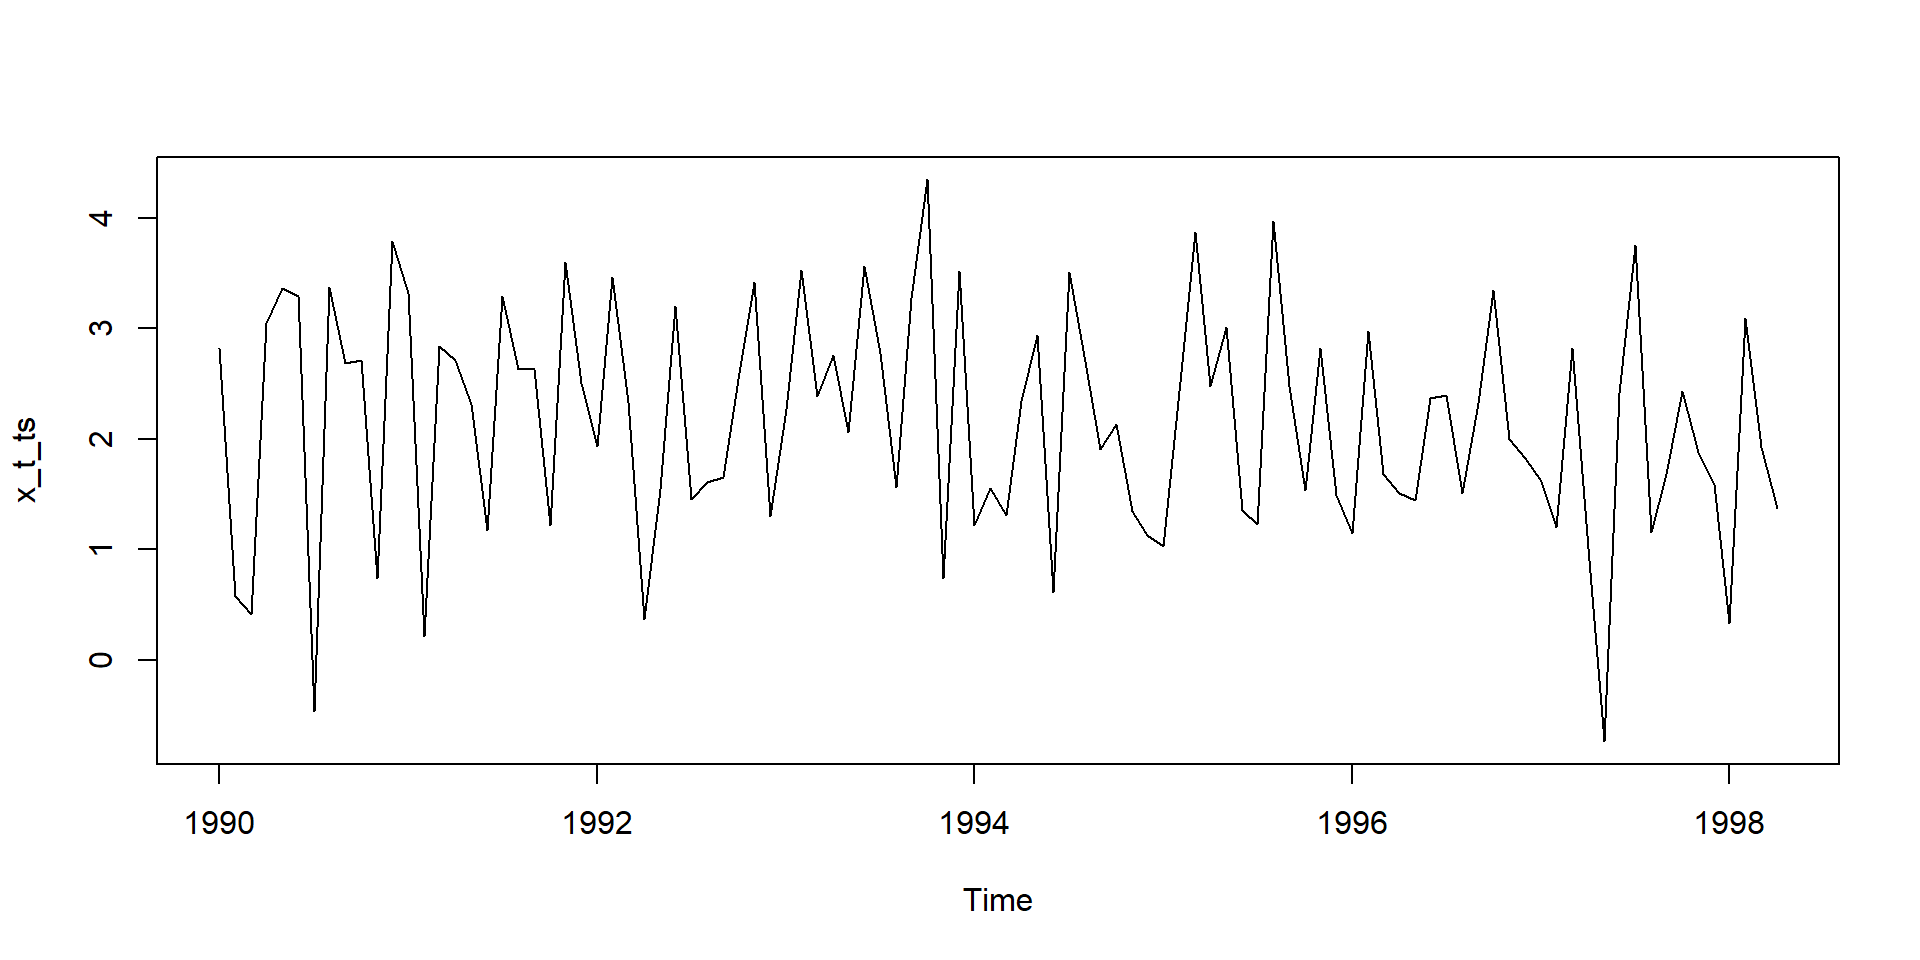
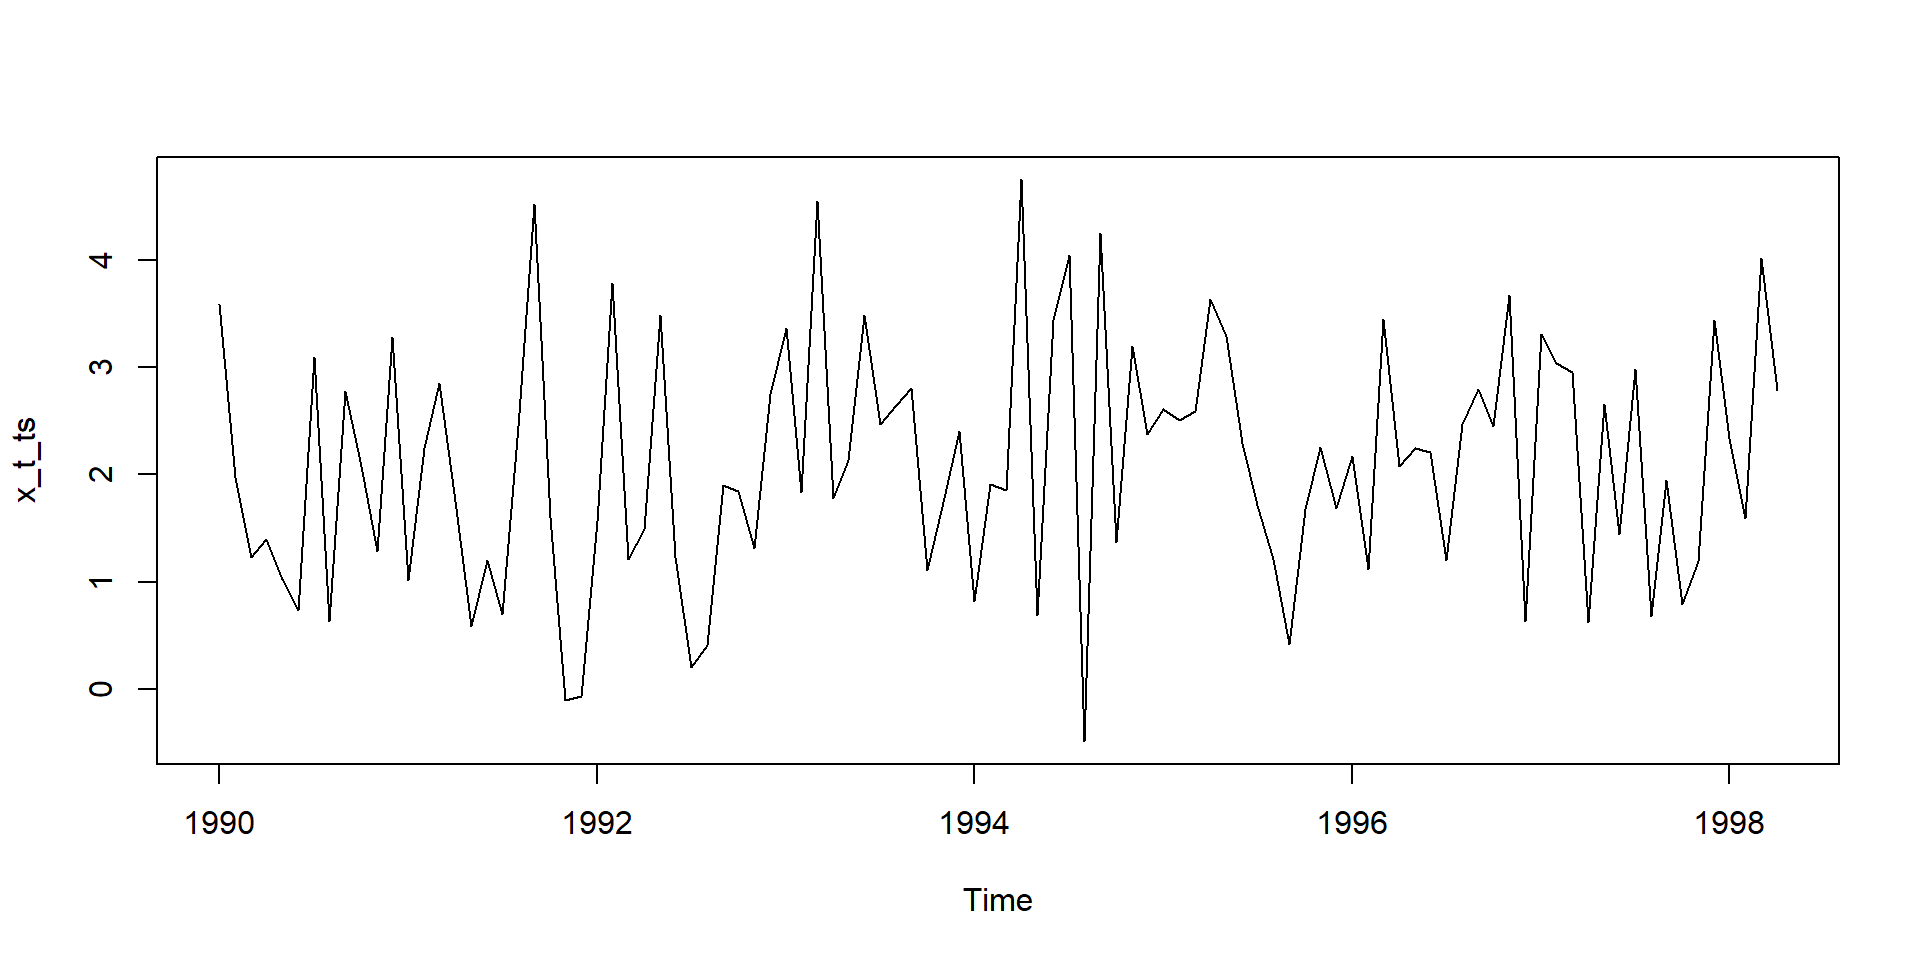
minor commit- added date

diff --git a/index.html b/index.html
@@ -403,6 +403,7 @@
   <p class="author">Senior Research Fellow</p>
   <p class="author">Department of Humanities and Social Sciences</p>
   <p class="author">Indian Institute of Technology Kharagpur</p>
+  <p class="date">30 April, 2022</p>
 </section>
 
 <section id="introduction" class="slide level3">
@@ -535,26 +536,26 @@
 <span id="cb3-10"><a href="#cb3-10"></a>x_t_ts</span></code><button title="Copy to Clipboard" class="code-copy-button"><i class="bi"></i></button></pre></div>
 </details>
 <div class="cell-output-stdout">
-<pre><code>            Jan        Feb        Mar        Apr        May        Jun
-1990  2.8203618  0.5755886  0.4134947  3.0454421  3.3659777  3.2954016
-1991  3.3161857  0.2127545  2.8374134  2.7166428  2.3117107  1.1738755
-1992  1.9372538  3.4643340  2.3323571  0.3694845  1.5466471  3.2061273
-1993  2.2733725  3.5311956  2.3861636  2.7582540  2.0640139  3.5661658
-1994  1.2235892  1.5590282  1.3059353  2.3428557  2.9375217  0.6132035
-1995  1.0304379  2.4296713  3.8684515  2.4794834  3.0075871  1.3595411
-1996  1.1439790  2.9719980  1.6849453  1.5137620  1.4455879  2.3669057
-1997  1.6188183  1.2002350  2.8244947  1.0083320 -0.7371647  2.4182762
-1998  0.3310294  3.0891463  1.9229076  1.3697189                      
-            Jul        Aug        Sep        Oct        Nov        Dec
-1990 -0.4609463  3.3737579  2.6817652  2.7152014  0.7397897  3.7916221
-1991  3.2913807  2.6275787  2.6283636  1.2202671  3.6020659  2.5092935
-1992  1.4530966  1.6121611  1.6524619  2.5441481  3.4220465  1.3020075
-1993  2.7735829  1.5619071  3.2748662  4.3476704  0.7436226  3.5164579
-1994  3.5114732  2.7507859  1.9112005  2.1323712  1.3501136  1.1322313
-1995  1.2307389  3.9682767  2.4759107  1.5398983  2.8250183  1.4945765
-1996  2.3994572  1.5054205  2.3194425  3.3441534  1.9971786  1.8297629
-1997  3.7563266  1.1551518  1.6803481  2.4344934  1.8830335  1.5874076
-1998                                                                  </code></pre>
+<pre><code>             Jan         Feb         Mar         Apr         May         Jun
+1990  3.58619003  1.97260692  1.23124454  1.39818664  1.02171087  0.73845603
+1991  1.01899946  2.24816454  2.85556385  1.75127558  0.58668438  1.19855449
+1992  1.56781854  3.79085127  1.20715958  1.48752162  3.48664945  1.22638670
+1993  3.36695089  1.83395531  4.55605347  1.77990781  2.13699560  3.49127827
+1994  0.82049670  1.91069217  1.85534271  4.75335798  0.68675529  3.43746413
+1995  2.61045317  2.50838287  2.58819281  3.63317504  3.29258593  2.29253950
+1996  2.17220052  1.11493451  3.44702546  2.07559415  2.24818698  2.20531843
+1997  3.30816721  3.04215390  2.95817542  0.62549910  2.65434288  1.44330964
+1998  2.33948409  1.59744423  4.02340716  2.79138713                        
+             Jul         Aug         Sep         Oct         Nov         Dec
+1990  3.09319210  0.63200855  2.77719168  2.07767082  1.28412951  3.28163590
+1991  0.70089023  2.44907446  4.52849894  1.60037770 -0.10856132 -0.07150558
+1992  0.20782724  0.40737580  1.90073560  1.84623948  1.31078144  2.75234294
+1993  2.47275528  2.64538595  2.80879192  1.10807746  1.74055831  2.40808579
+1994  4.04437223 -0.48879156  4.24971148  1.37041498  3.19836224  2.37372865
+1995  1.71185441  1.21392902  0.42062794  1.67967552  2.25341664  1.68658852
+1996  1.19843909  2.47197746  2.79586584  2.44979455  3.67077967  0.63252534
+1997  2.98473636  0.67704394  1.94995663  0.78865165  1.19185131  3.43795162
+1998                                                                        </code></pre>
 </div>
 </div>
 <div class="cell">
@@ -583,107 +584,107 @@
 <span id="cb6-10"><a href="#cb6-10"></a>xt_xts</span></code><button title="Copy to Clipboard" class="code-copy-button"><i class="bi"></i></button></pre></div>
 </details>
 <div class="cell-output-stdout">
-<pre><code>               [,1]
-Jan 1990  2.8203618
-Feb 1990  0.5755886
-Mar 1990  0.4134947
-Apr 1990  3.0454421
-May 1990  3.3659777
-Jun 1990  3.2954016
-Jul 1990 -0.4609463
-Aug 1990  3.3737579
-Sep 1990  2.6817652
-Oct 1990  2.7152014
-Nov 1990  0.7397897
-Dec 1990  3.7916221
-Jan 1991  3.3161857
-Feb 1991  0.2127545
-Mar 1991  2.8374134
-Apr 1991  2.7166428
-May 1991  2.3117107
-Jun 1991  1.1738755
-Jul 1991  3.2913807
-Aug 1991  2.6275787
-Sep 1991  2.6283636
-Oct 1991  1.2202671
-Nov 1991  3.6020659
-Dec 1991  2.5092935
-Jan 1992  1.9372538
-Feb 1992  3.4643340
-Mar 1992  2.3323571
-Apr 1992  0.3694845
-May 1992  1.5466471
-Jun 1992  3.2061273
-Jul 1992  1.4530966
-Aug 1992  1.6121611
-Sep 1992  1.6524619
-Oct 1992  2.5441481
-Nov 1992  3.4220465
-Dec 1992  1.3020075
-Jan 1993  2.2733725
-Feb 1993  3.5311956
-Mar 1993  2.3861636
-Apr 1993  2.7582540
-May 1993  2.0640139
-Jun 1993  3.5661658
-Jul 1993  2.7735829
-Aug 1993  1.5619071
-Sep 1993  3.2748662
-Oct 1993  4.3476704
-Nov 1993  0.7436226
-Dec 1993  3.5164579
-Jan 1994  1.2235892
-Feb 1994  1.5590282
-Mar 1994  1.3059353
-Apr 1994  2.3428557
-May 1994  2.9375217
-Jun 1994  0.6132035
-Jul 1994  3.5114732
-Aug 1994  2.7507859
-Sep 1994  1.9112005
-Oct 1994  2.1323712
-Nov 1994  1.3501136
-Dec 1994  1.1322313
-Jan 1995  1.0304379
-Feb 1995  2.4296713
-Mar 1995  3.8684515
-Apr 1995  2.4794834
-May 1995  3.0075871
-Jun 1995  1.3595411
-Jul 1995  1.2307389
-Aug 1995  3.9682767
-Sep 1995  2.4759107
-Oct 1995  1.5398983
-Nov 1995  2.8250183
-Dec 1995  1.4945765
-Jan 1996  1.1439790
-Feb 1996  2.9719980
-Mar 1996  1.6849453
-Apr 1996  1.5137620
-May 1996  1.4455879
-Jun 1996  2.3669057
-Jul 1996  2.3994572
-Aug 1996  1.5054205
-Sep 1996  2.3194425
-Oct 1996  3.3441534
-Nov 1996  1.9971786
-Dec 1996  1.8297629
-Jan 1997  1.6188183
-Feb 1997  1.2002350
-Mar 1997  2.8244947
-Apr 1997  1.0083320
-May 1997 -0.7371647
-Jun 1997  2.4182762
-Jul 1997  3.7563266
-Aug 1997  1.1551518
-Sep 1997  1.6803481
-Oct 1997  2.4344934
-Nov 1997  1.8830335
-Dec 1997  1.5874076
-Jan 1998  0.3310294
-Feb 1998  3.0891463
-Mar 1998  1.9229076
-Apr 1998  1.3697189</code></pre>
+<pre><code>                [,1]
+Jan 1990  3.58619003
+Feb 1990  1.97260692
+Mar 1990  1.23124454
+Apr 1990  1.39818664
+May 1990  1.02171087
+Jun 1990  0.73845603
+Jul 1990  3.09319210
+Aug 1990  0.63200855
+Sep 1990  2.77719168
+Oct 1990  2.07767082
+Nov 1990  1.28412951
+Dec 1990  3.28163590
+Jan 1991  1.01899946
+Feb 1991  2.24816454
+Mar 1991  2.85556385
+Apr 1991  1.75127558
+May 1991  0.58668438
+Jun 1991  1.19855449
+Jul 1991  0.70089023
+Aug 1991  2.44907446
+Sep 1991  4.52849894
+Oct 1991  1.60037770
+Nov 1991 -0.10856132
+Dec 1991 -0.07150558
+Jan 1992  1.56781854
+Feb 1992  3.79085127
+Mar 1992  1.20715958
+Apr 1992  1.48752162
+May 1992  3.48664945
+Jun 1992  1.22638670
+Jul 1992  0.20782724
+Aug 1992  0.40737580
+Sep 1992  1.90073560
+Oct 1992  1.84623948
+Nov 1992  1.31078144
+Dec 1992  2.75234294
+Jan 1993  3.36695089
+Feb 1993  1.83395531
+Mar 1993  4.55605347
+Apr 1993  1.77990781
+May 1993  2.13699560
+Jun 1993  3.49127827
+Jul 1993  2.47275528
+Aug 1993  2.64538595
+Sep 1993  2.80879192
+Oct 1993  1.10807746
+Nov 1993  1.74055831
+Dec 1993  2.40808579
+Jan 1994  0.82049670
+Feb 1994  1.91069217
+Mar 1994  1.85534271
+Apr 1994  4.75335798
+May 1994  0.68675529
+Jun 1994  3.43746413
+Jul 1994  4.04437223
+Aug 1994 -0.48879156
+Sep 1994  4.24971148
+Oct 1994  1.37041498
+Nov 1994  3.19836224
+Dec 1994  2.37372865
+Jan 1995  2.61045317
+Feb 1995  2.50838287
+Mar 1995  2.58819281
+Apr 1995  3.63317504
+May 1995  3.29258593
+Jun 1995  2.29253950
+Jul 1995  1.71185441
+Aug 1995  1.21392902
+Sep 1995  0.42062794
+Oct 1995  1.67967552
+Nov 1995  2.25341664
+Dec 1995  1.68658852
+Jan 1996  2.17220052
+Feb 1996  1.11493451
+Mar 1996  3.44702546
+Apr 1996  2.07559415
+May 1996  2.24818698
+Jun 1996  2.20531843
+Jul 1996  1.19843909
+Aug 1996  2.47197746
+Sep 1996  2.79586584
+Oct 1996  2.44979455
+Nov 1996  3.67077967
+Dec 1996  0.63252534
+Jan 1997  3.30816721
+Feb 1997  3.04215390
+Mar 1997  2.95817542
+Apr 1997  0.62549910
+May 1997  2.65434288
+Jun 1997  1.44330964
+Jul 1997  2.98473636
+Aug 1997  0.67704394
+Sep 1997  1.94995663
+Oct 1997  0.78865165
+Nov 1997  1.19185131
+Dec 1997  3.43795162
+Jan 1998  2.33948409
+Feb 1998  1.59744423
+Mar 1998  4.02340716
+Apr 1998  2.79138713</code></pre>
 </div>
 </div>
 <div class="cell">
